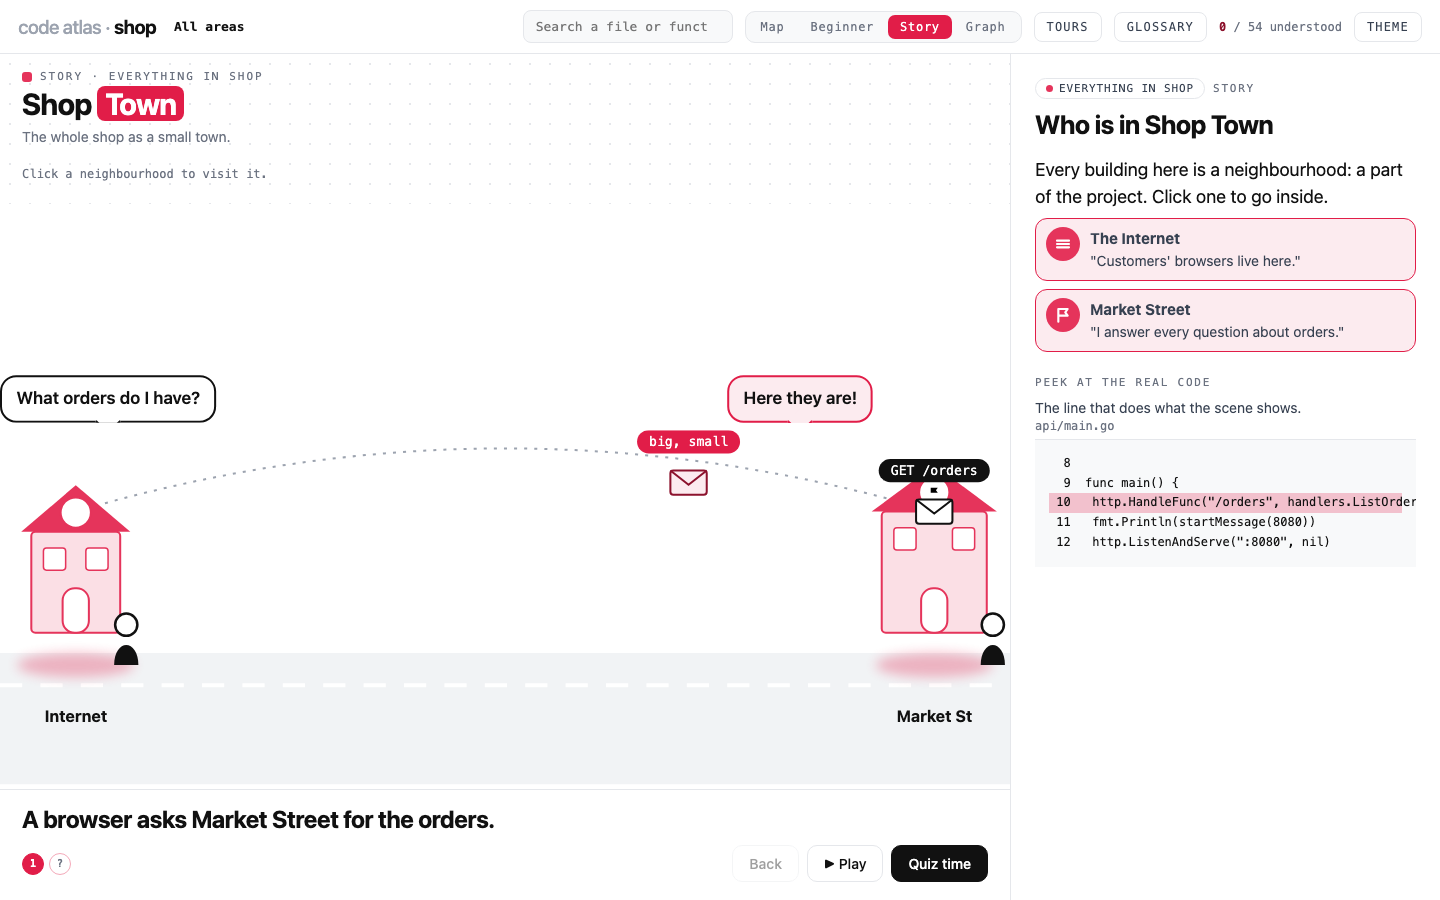
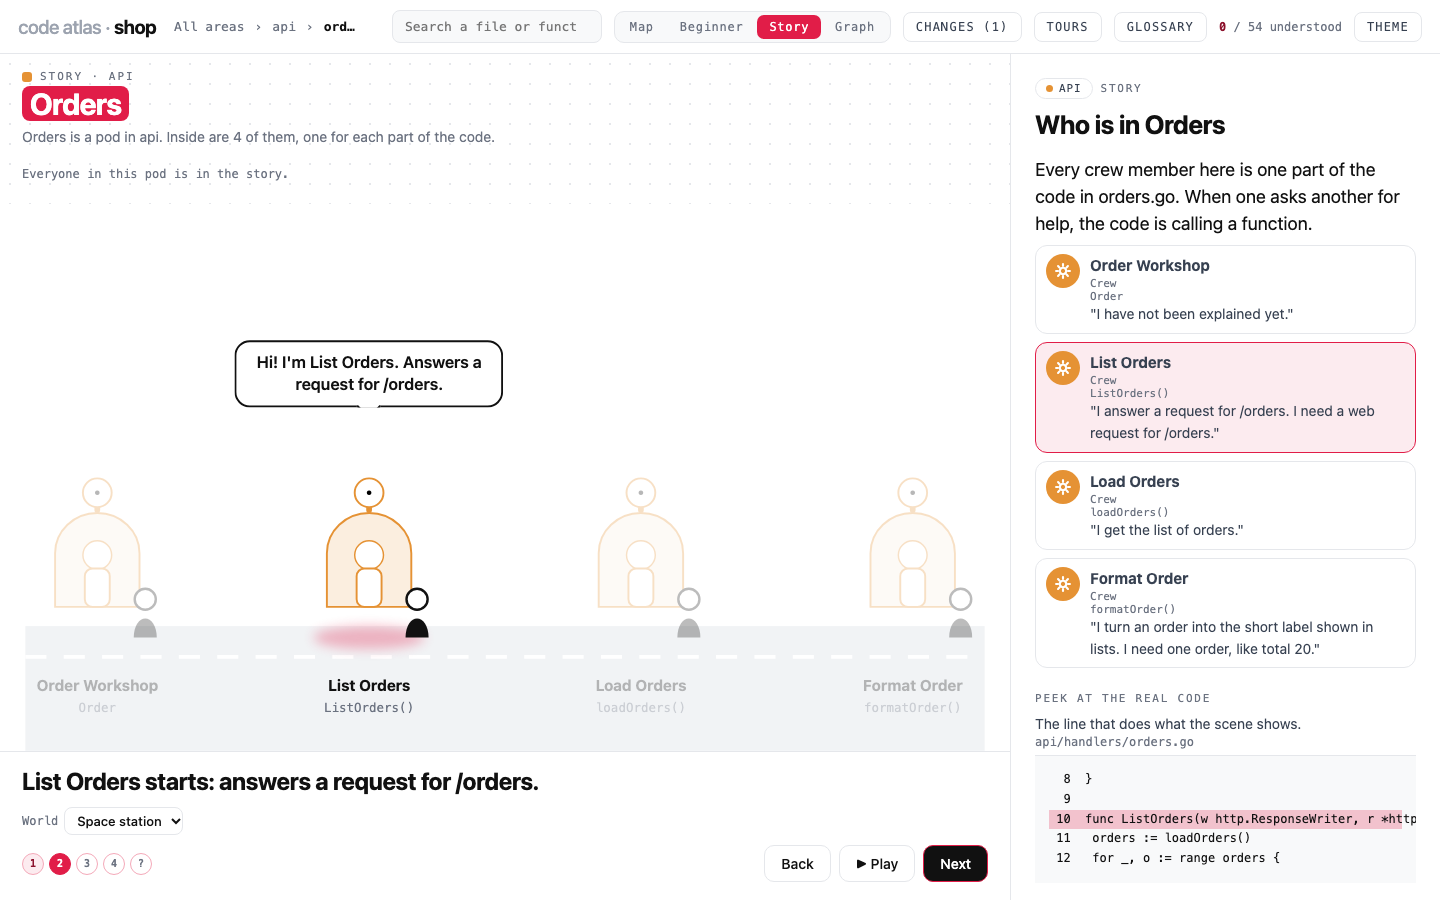
New screenshots (World menu, levels, Changes); story hints use the world's words

diff --git a/plugins/code-atlas/skills/code-atlas/assets/viewer.html b/plugins/code-atlas/skills/code-atlas/assets/viewer.html
@@ -1162,7 +1162,7 @@ function drawStory() {
   $('#lvSub').textContent = st.intro;
   // a way out: into a building, or back up the street
   const inside = kids(level.id ?? '').filter(k2 => opens(k2)).length || !level.id;
-  $('#lvAct').innerHTML = level.id ? `<span class="scopenote" style="pointer-events:auto">${inside ? 'Click a house to go inside.' : 'Everyone in this building is in the story.'}</span>` : '<span class="scopenote">Click a neighbourhood to visit it.</span>';
+  $('#lvAct').innerHTML = level.id ? `<span class="scopenote" style="pointer-events:auto">${inside ? `Click a ${W.building} to go inside.` : `Everyone in this ${W.building} is in the story.`}</span>` : `<span class="scopenote">Click a ${W.neighbourhood} to visit it.</span>`;
   ss.quiz ? drawQuiz(st) : drawScene(st);
 }
 function shapeSVG(x, w, h, top) { // one building per world, drawn with the same classes so area colours apply

diff --git a/README.md b/README.md
@@ -6,9 +6,9 @@ It is built for people learning a codebase: newcomers to a team, people who buil
 
 | Map | Beginner |
 |---|---|
-| ![Map view: areas of a demo codebase as cards](docs/screenshots/1-map-overview.png) | ![Beginner view: a file's functions, numbered calls, and the code panel](docs/screenshots/2-beginner-file.png) |
+| ![Map view: areas of a demo codebase as cards](docs/screenshots/1-map-overview.png) | ![Beginner view: a function with Takes in, Does, Gives back, the level switch and its changed lines](docs/screenshots/2-beginner-file.png) |
 | **Story** | **Graph** |
-| ![Story view: the codebase as a small town with speech bubbles](docs/screenshots/3-story.png) | ![Graph view: every function as a dot, clustered by area](docs/screenshots/4-graph.png) |
+| ![Story view: the code as a space station, with the World menu](docs/screenshots/3-story.png) | ![Graph view: every function as a dot, clustered by area](docs/screenshots/4-graph.png) |
 
 *Screenshots from the made-up demo project in [`demo/shop`](demo/shop).*
 
